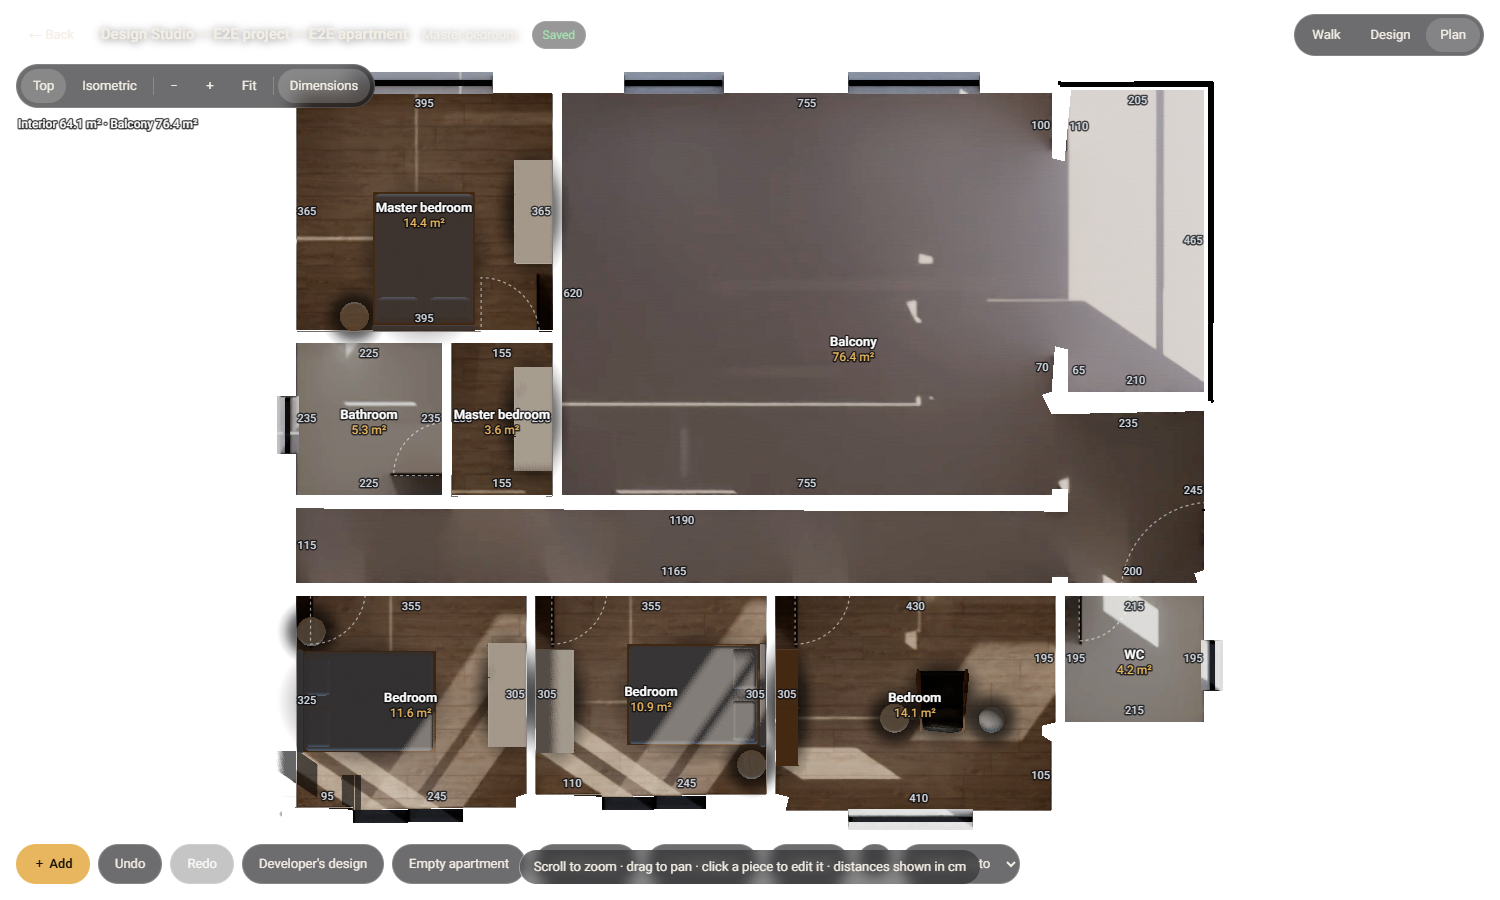
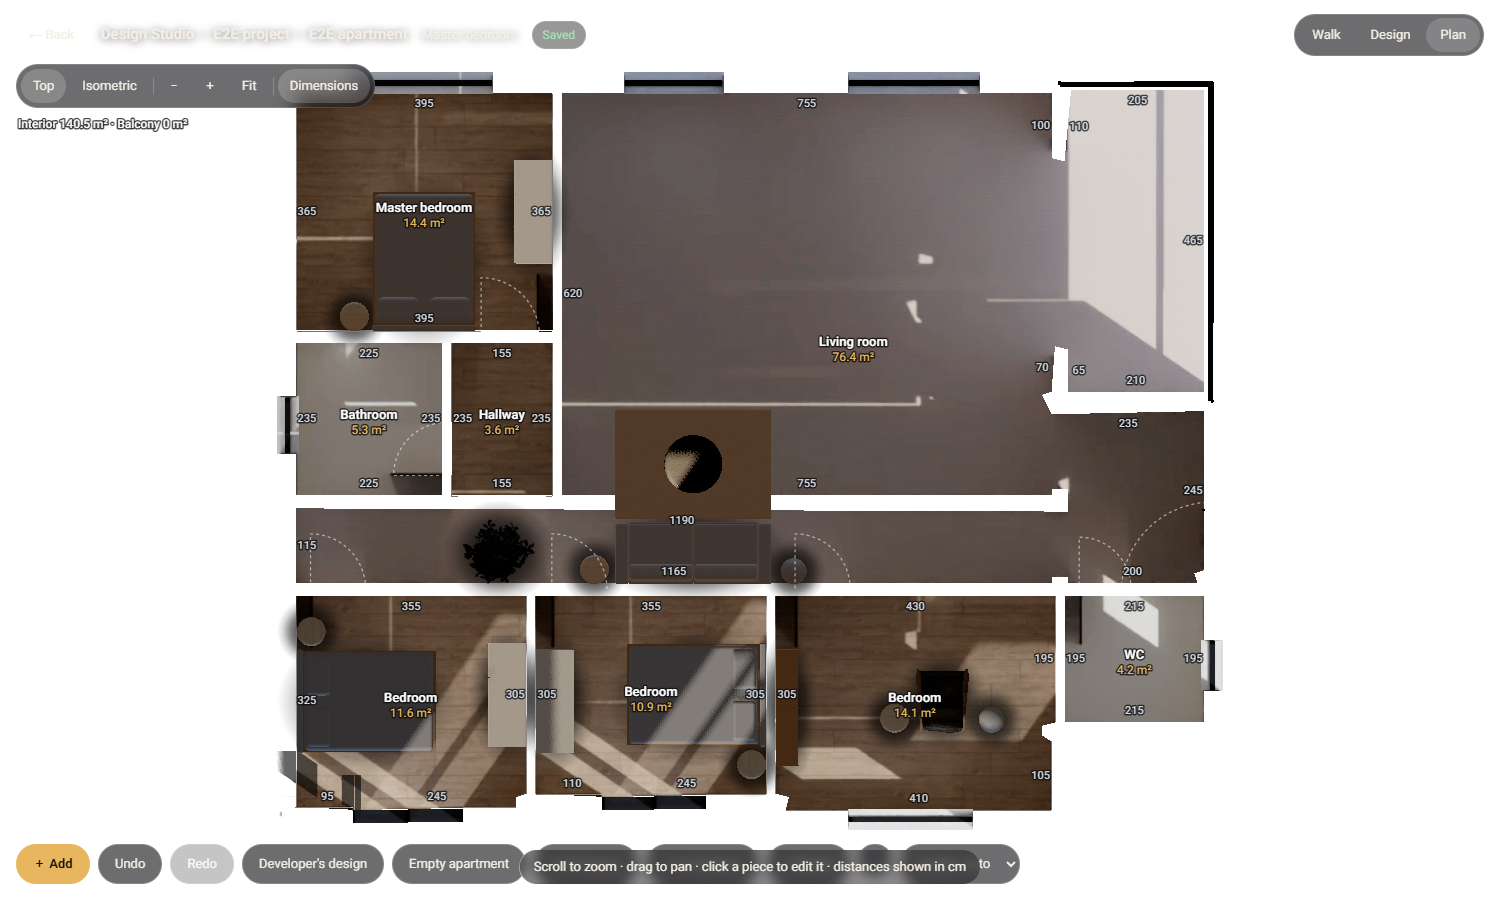
Fix room typing when one outline holds several labels (open living area was a balcony); lobby of a suite is a corridor

Changed region(s): [[0.3067, 0.4044, 0.552, 0.6844], [0.0307, 0.1244, 0.1533, 0.1556], [0.552, 0.3733, 0.5827, 0.4044]]

diff --git a/lib/twin/dxf/parse.ts b/lib/twin/dxf/parse.ts
@@ -261,9 +261,11 @@ const ROOM_KEYWORDS: [RegExp, RoomType][] = [
   [/חדר שירות|שירות|utility/i, "laundry"],
   [/כביסה|laundry|utility/i, "laundry"],
   [/מחסן|storage|store/i, "storage"],
-  [/סלון|living|lounge|family/i, "living"],
+  [/סלון|חדר מגורים|מגורים|living|lounge|family/i, "living"],
   [/מטבח|kitchen/i, "kitchen"],
   [/פינת אוכל|dining/i, "dining"],
+  // "מבואת הורים" is the lobby of the master suite, not the master bedroom
+  [/מבואת\s/, "corridor"],
   [/הורים|master|parents/i, "master"],
   [/מסדרון|מבואה|פרוזדור|hall|corridor|entry|foyer|lobby/i, "corridor"],
   [/שינה|bedroom|bed\b|חדר ילדים|ילדים|עבודה|study|office/i, "bedroom"],
@@ -275,6 +277,13 @@ const ROOMS_RE = /(\d+(?:[.,]\d+)?)\s*(?:חדרים|חד['׳]|rooms)/i;
 export function roomType(label: string): RoomType {
   for (const [re, t] of ROOM_KEYWORDS) if (re.test(label)) return t;
   return "other";
+}
+
+/** When one outline holds several labels (an open living area), the most important function names the room. */
+const TYPE_PRIORITY: RoomType[] = ["living", "kitchen", "dining", "master", "bedroom", "mamad", "bath", "wc", "laundry", "storage", "corridor", "balcony", "other"];
+export function roomTypeOfLabels(labels: string[]): RoomType {
+  const types = labels.map(roomType);
+  return TYPE_PRIORITY.find((t) => types.includes(t)) ?? "other";
 }
 
 export function parseDxf(src: string, opts: ParseOptions = {}): ParseResult {
@@ -510,7 +519,7 @@ export function parseDxf(src: string, opts: ParseOptions = {}): ParseResult {
     inside.forEach((t) => used.add(t.i));
     const areaText = inside.find((t) => AREA_RE.test(t.text) && !/[א-תA-Za-z]{3,}/.test(t.text.replace(AREA_RE, "")));
     const nameText = inside.filter((t) => t !== areaText).map((t) => t.text).join(" ").trim();
-    const type = roomType(nameText);
+    const type = roomTypeOfLabels(inside.filter((t) => t !== areaText).map((t) => t.text));
     const num = nameText.match(/\d+/)?.[0];
     counters[type] = (counters[type] ?? 0) + 1;
     const id = `${type}-${num ?? counters[type]}`;

diff --git a/lib/__tests__/dxfReal.test.ts b/lib/__tests__/dxfReal.test.ts
@@ -6,7 +6,7 @@
  * units on one sheet. Each case is built here from a few lines of DXF.
  */
 import { describe, expect, it } from "vitest";
-import { parseDxf, roomType } from "../twin/dxf/parse";
+import { parseDxf, roomType, roomTypeOfLabels } from "../twin/dxf/parse";
 import { polygonArea } from "../twin/schema";
 
 const dxf = (ents: string[][], insunits = 4) =>
@@ -99,6 +99,23 @@ describe("rooms from walls", () => {
   it("names rooms from the text label inside, in English, Hebrew and Chinese", () => {
     const { twin } = parseDxf(dxf([...apartment("A-WALL"), text("TXT", 1.5, 2, "KITCHEN"), text("TXT", 4.5, 2, "客厅")]));
     expect(twin.rooms.map((r) => r.type).sort()).toEqual(["kitchen", "living"]);
+  });
+});
+
+describe("room labels with several texts in one outline", () => {
+  it("an open living area with a balcony label is a living room, not a balcony", () => {
+    expect(roomTypeOfLabels(["חדר מגורים", "מטבח", "פינת אוכל", "מרפסת"])).toBe("living");
+    expect(roomTypeOfLabels(["מטבח", "מרפסת"])).toBe("kitchen");
+  });
+  it("a lone balcony stays a balcony; unknown texts are ignored", () => {
+    expect(roomTypeOfLabels(["מרפסת"])).toBe("balcony");
+    expect(roomTypeOfLabels(["356 × 331"])).toBe("other");
+    expect(roomTypeOfLabels(["חדר שינה א", "356 × 331"])).toBe("bedroom");
+  });
+  it("the lobby of a suite is a corridor, not the master bedroom", () => {
+    expect(roomType("מבואת הורים")).toBe("corridor");
+    expect(roomType("חדר הורים")).toBe("master");
+    expect(roomType("מבואת כניסה מסדרון חדר מגורים מטבח")).toBe("living");
   });
 });
 

diff --git a/docs/design-studio/PROGRESS.md b/docs/design-studio/PROGRESS.md
@@ -231,3 +231,10 @@ Every tour now links to an empty apartment of its own plan: `/walk/<slug>` looks
 - `scripts/studio/e2e-newplan.mjs <slug>` (buyer): tour shows the studio button, studio opens the 14-piece starter design, an edit + Save survives a reload, no page errors. All PASS. Screenshots in `docs/design-studio/results/newplan/`.
 - Found while testing (not fixed): the new shell has no `public/studio/lighting/<slug>.json`, so live items use neutral lighting (the loader falls back; one 404 per load, ignored by the test). The Yarden DXF parses with the open living area read as "Balcony 76.4 m2" and a 3.6 m2 room named "Master bedroom", so the seed has no living-room furniture: a parser/labelling issue, not a worker issue.
 - The first run printed "nothing queued" because the test inserted `approvedAt` in local time into a `timestamp` column (Prisma reads UTC); fixed in the test script. The worker itself was right.
+
+## Room labelling fix (2026-11-27)
+- Cause: one outline can hold several labels (a missing wall merges the living area, kitchen, dining and a balcony label), and the room type was the FIRST keyword match in list order, so "מרפסת" won and the open living area became a "balcony" (and was left out of the net area). "מבואת הורים" matched "הורים" and became a second master bedroom. "חדר מגורים" alone had no keyword.
+- Fix (`lib/twin/dxf/parse.ts`): `roomTypeOfLabels` picks the type per label and resolves by function priority (living > kitchen > dining > master > bedroom > mamad > bath > wc > laundry > storage > corridor > balcony); "מבואת <x>" is a corridor; "חדר מגורים" is living. +3 tests (550 total).
+- Result on `03_Yarden.dxf`: Living room 76.4 m2, Hallway 3.6 m2, net 140.5 m2 (was 64.1), 0 warnings. Other real plans unchanged (Tamar 100.86, Gefen 115.66, Apartment-1 294.13 with the same 17 errors). The studio seed went from 14 to 19 pieces (living group + kitchen now placed).
+- Still open: the merged outline also swallows the corridor and the entrance area, so the planner put the sofa group on the wall of the corridor strip instead of in the main living space. Needs either a split of open-plan outlines or a placement rule that prefers the largest open rectangle.
+- The already-built TOUR of this test apartment still has the old names; apartments built from now on get the fix automatically (re-run the worker to refresh one).
